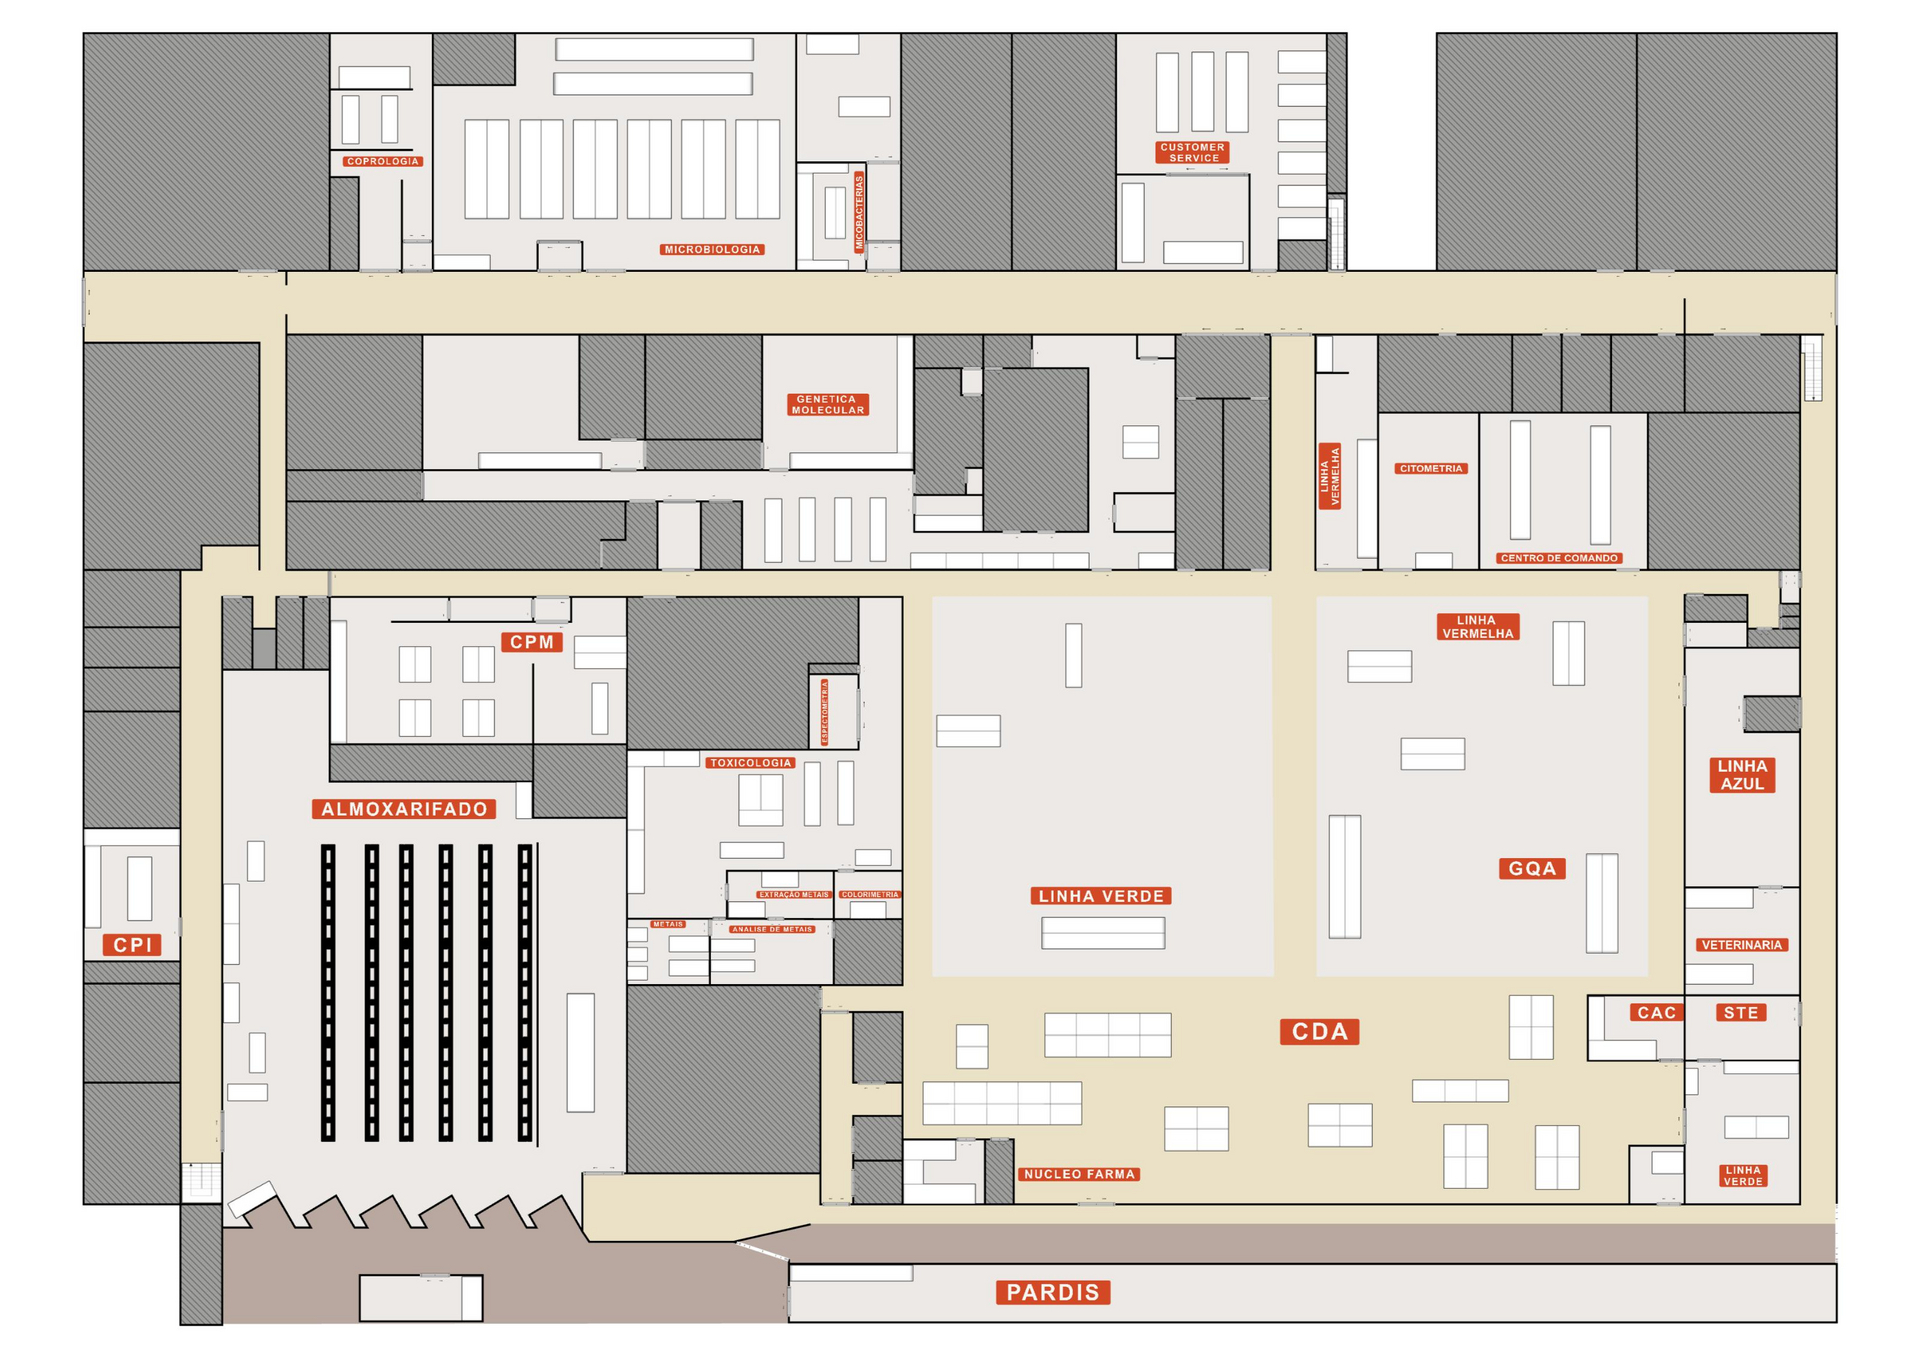
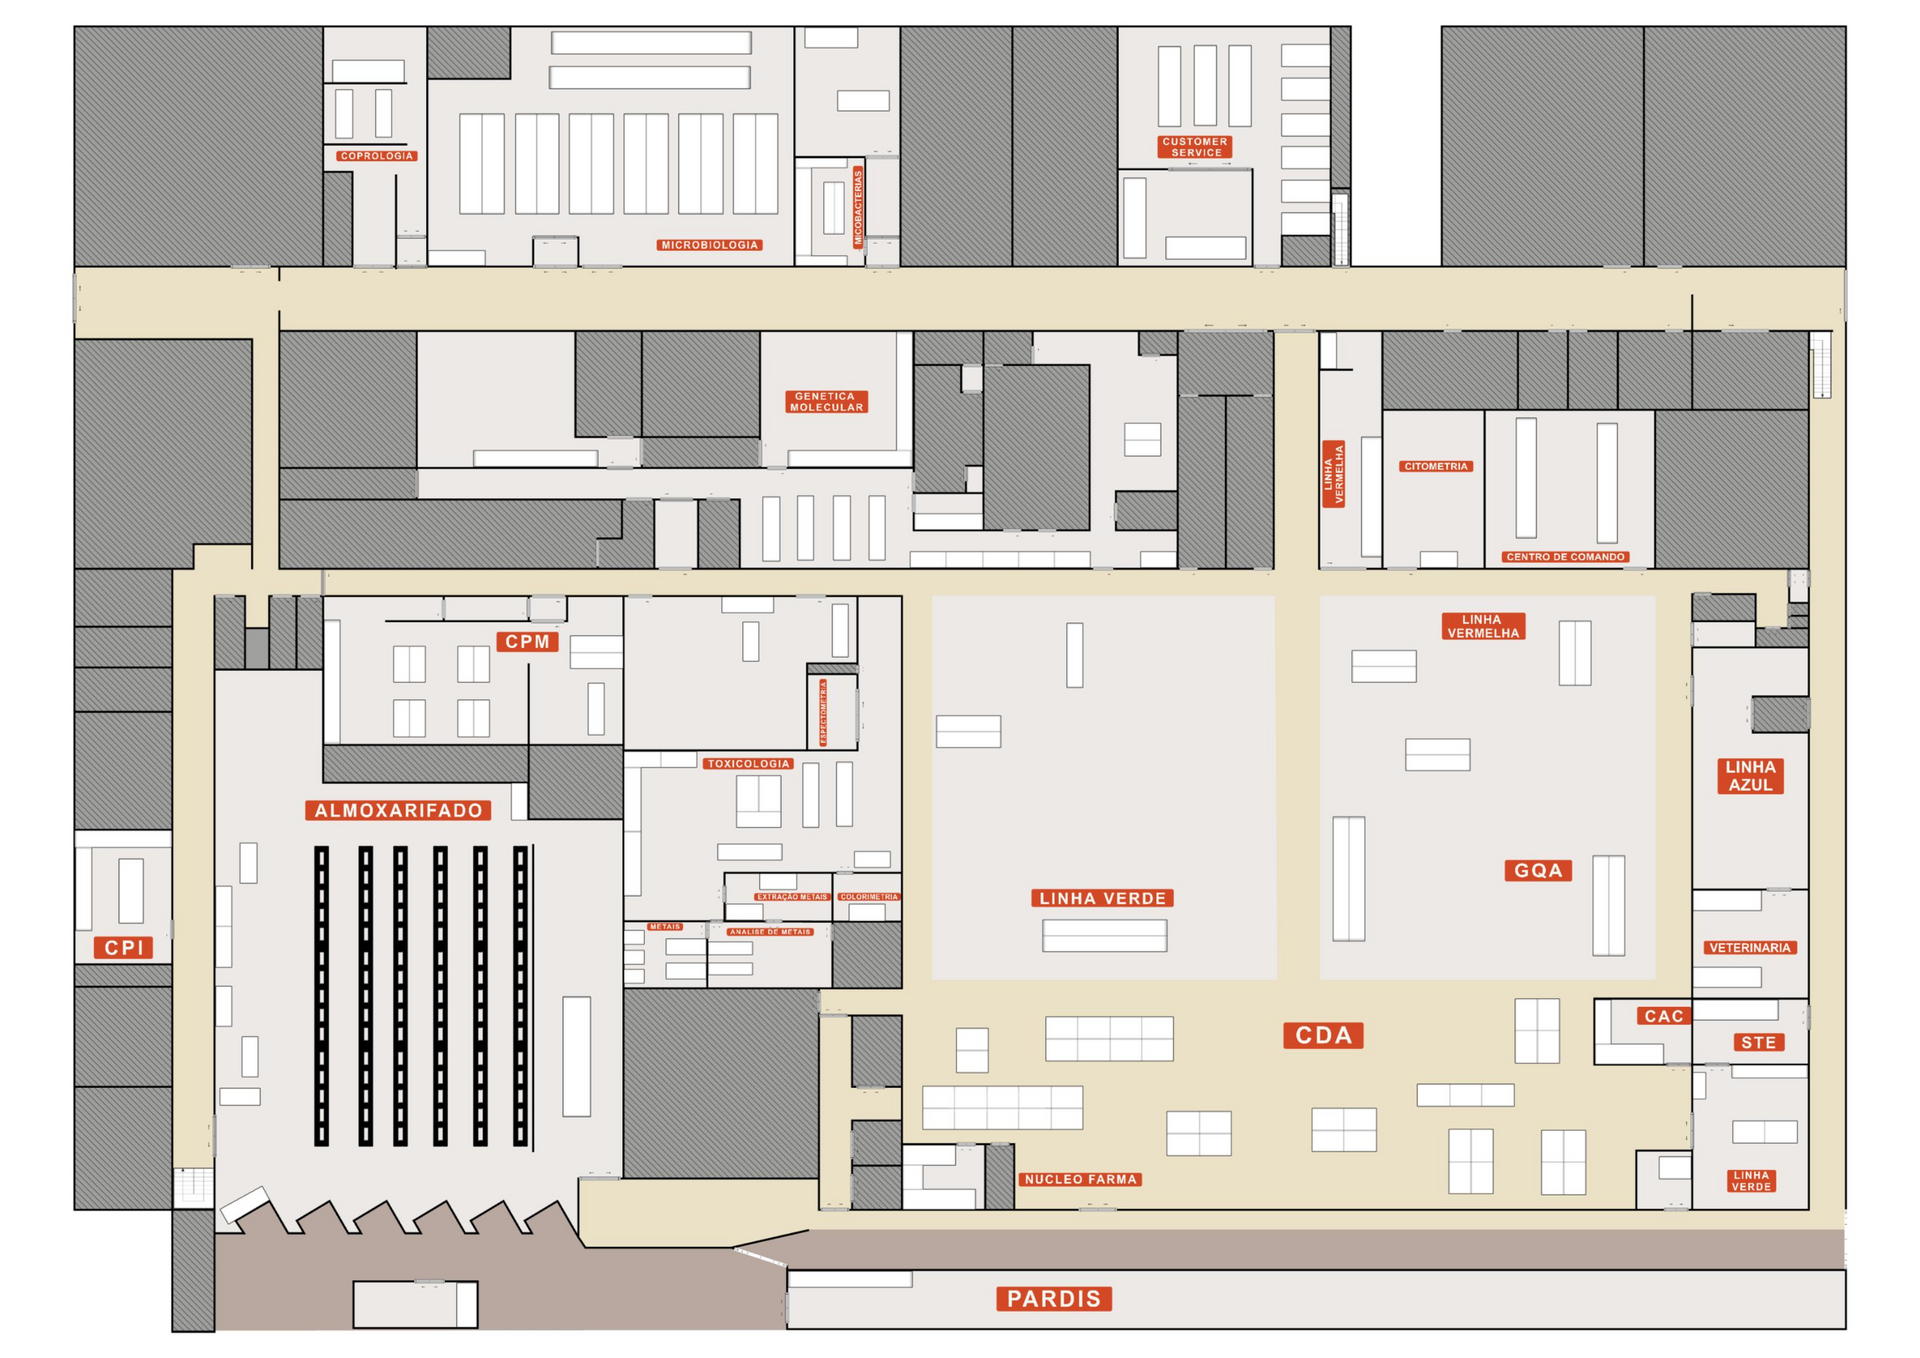
Planta atualizada, busca fixa no cabeçalho e botão Config ZT421 funcional
- Planta (plantanto.jpg) atualizada; cache-busting com ?v=3 e aspect-ratio
  ajustado (1920x1358) para o navegador pegar a imagem nova
- Busca (lupa) agora fica fixa no cabeçalho (não mais flutuante)
- Buscar e clicar num resultado só destaca a impressora no mapa; NÃO abre
  mais o painel virtual automaticamente
- Botão "Config ZT421" (visor e sidebar) passa a enviar o ZPL correto
  exportado do ZebraDesigner (config + etiqueta com logo), guardado em
  base64 em data.js para preservar o gráfico e os bytes de controle

diff --git a/data.js b/data.js
@@ -120,3 +120,8 @@ P1
 `;
 
 export const CALIBRAGEM = `~jc^xa^jus^xz`;
+
+// Configuração/etiqueta ZT421 (exportada do ZebraDesigner, com logo).
+// Guardada em base64 para preservar o gráfico e os bytes de controle exatos.
[1 lines of base64/hex data omitted]
+export const ZT421_CONFIG = (typeof atob === 'function') ? atob(ZT421_CONFIG_B64) : ZT421_CONFIG_B64;

diff --git a/index.html b/index.html
@@ -12,21 +12,6 @@
 <body>
   <div class="bg-fx"></div>
 
-  <!-- Busca flutuante -->
-  <div id="side-actions">
-    <div id="search-container">
-      <form id="search-form" class="flex items-center">
-        <input id="search-input" type="text" placeholder="Buscar por nome, IP ou setor..." autocomplete="off">
-        <div id="search-hitbox" class="icon-hitbox">
-          <button type="button" id="search-icon-btn" class="w-10 h-10 flex items-center justify-center">
-            <svg class="w-5 h-5" fill="none" stroke="currentColor" viewBox="0 0 24 24"><path stroke-linecap="round" stroke-linejoin="round" stroke-width="2" d="M21 21l-6-6m2-5a7 7 0 11-14 0 7 7 0 0114 0z"/></svg>
-          </button>
-        </div>
-      </form>
-      <div id="search-results"></div>
-    </div>
-  </div>
-
   <div id="main-wrapper" class="container mx-auto p-4 md:p-8 container-with-sidebar">
     <header class="app-header">
       <div class="app-brand">
@@ -41,6 +26,17 @@
         </div>
       </div>
       <div class="app-controls">
+        <div id="search-container">
+          <form id="search-form" class="flex items-center" onsubmit="return false">
+            <input id="search-input" type="text" placeholder="Buscar por nome, IP ou setor..." autocomplete="off">
+            <div id="search-hitbox" class="icon-hitbox">
+              <button type="button" id="search-icon-btn" class="w-10 h-10 flex items-center justify-center">
+                <svg class="w-5 h-5" fill="none" stroke="currentColor" viewBox="0 0 24 24"><path stroke-linecap="round" stroke-linejoin="round" stroke-width="2" d="M21 21l-6-6m2-5a7 7 0 11-14 0 7 7 0 0114 0z"/></svg>
+              </button>
+            </div>
+          </form>
+          <div id="search-results"></div>
+        </div>
         <button id="add-printer-btn" class="ghost-btn" title="Adicionar impressora ao mapa">
           <svg viewBox="0 0 24 24" fill="none" stroke="currentColor" stroke-width="2" stroke-linecap="round" stroke-linejoin="round"><path d="M12 5v14M5 12h14"/></svg>
           <span class="hide-sm">Adicionar</span>
@@ -65,9 +61,9 @@
     </div>
 
     <main id="map-and-content">
-      <div id="map-container" class="relative mx-auto" style="width: min(3840px, 92vw); aspect-ratio: 3840 / 2715;">
+      <div id="map-container" class="relative mx-auto" style="width: min(3840px, 92vw); aspect-ratio: 1920 / 1358;">
         <div id="map-inner" class="relative w-full h-full">
-          <img id="map-image" src="plantanto.jpg" alt="Planta" class="w-full h-full object-contain">
+          <img id="map-image" src="plantanto.jpg?v=3" alt="Planta" class="w-full h-full object-contain">
         </div>
         <div id="map-tooltip"></div>
       </div>

diff --git a/main.js b/main.js
@@ -1,5 +1,5 @@
 import { configDocRef, onSnapshot, setDoc } from './firebaseConfig.js';
-import { TESTE_CABECA, CALIBRAGEM } from './data.js';
+import { TESTE_CABECA, CALIBRAGEM, ZT421_CONFIG } from './data.js';
 import { showToast, logPanel, debounce } from './helpers.js';
 import { fetchPrinterStatus, sendCommand, STATE_LABELS } from './printer_logic.js';
 import { openBrowserWindow, closeBrowserWindow, reloadBrowser, browserBack, navigateFromBar, setupDragLogic } from './browser_window.js';
@@ -116,8 +116,9 @@ document.addEventListener('DOMContentLoaded', async () => {
         return point;
     }
 
+    const MAP_VERSION = '3'; // aumente ao trocar a planta para furar o cache
     function updateMapImage() {
-        mapImage.src = currentFloor === 1 ? 'plantanto.jpg' : 'plantanto2.jpg';
+        mapImage.src = (currentFloor === 1 ? 'plantanto.jpg' : 'plantanto2.jpg') + '?v=' + MAP_VERSION;
     }
 
     function focusPrinter(printer) {
@@ -297,7 +298,7 @@ document.addEventListener('DOMContentLoaded', async () => {
     document.getElementById('btn-calibrate-panel').addEventListener('click', () => sendCommand(CALIBRAGEM, 'Calibrar', currentPrinterIp, API_BASE_URL));
     document.getElementById('btn-headtest-panel').addEventListener('click', () => sendCommand(TESTE_CABECA, 'Teste Cabeça', currentPrinterIp, API_BASE_URL));
     document.getElementById('btn-zt421-panel').addEventListener('click', () => {
-        if (confirm('Enviar ZT421?')) sendCommand(`\x10CT~~CD,~CC^~CT~^XA~TA000~JSN^LT0^MNW^MTT^PON^PMN^LH0,0^JMA^PR3,3~SD20^JUS^LRN^CI0^XZ`, 'ZT421', currentPrinterIp, API_BASE_URL);
+        if (confirm('Enviar configuração ZT421 (imprime etiqueta de teste)?')) sendCommand(ZT421_CONFIG, 'ZT421', currentPrinterIp, API_BASE_URL);
     });
     document.getElementById('btn-send-raw-panel').addEventListener('click', () => {
         sendCommand(document.getElementById('panel-rawcmd').value, 'Manual', currentPrinterIp, API_BASE_URL);
@@ -353,7 +354,8 @@ document.addEventListener('DOMContentLoaded', async () => {
                 document.getElementById('search-container').classList.remove('expanded');
                 searchInput.value = '';
                 if (r.floor !== currentFloor) { currentFloor = r.floor; floorSelect.value = r.floor; updateMapImage(); renderAllPrinters(); }
-                focusPrinter(r); selectPrinter(r);
+                // apenas destaca no mapa; NÃO abre o painel virtual automaticamente
+                focusPrinter(r);
             };
             searchResults.appendChild(d);
         });

diff --git a/style.css b/style.css
@@ -146,21 +146,21 @@ body{
 /* ============================================================
    BUSCA
    ============================================================ */
-#side-actions{ position:fixed; top:18px; right:380px; z-index:70; }
-@media (max-width:900px){ #side-actions{ right:16px; } }
+/* Busca fixa no cabeçalho */
 #search-container{
   position:relative; display:flex; align-items:center; justify-content:flex-end;
-  background:var(--panel-bg); border:1px solid var(--card-border); border-radius:999px;
-  backdrop-filter: blur(12px); box-shadow:var(--shadow);
+  background:var(--card-strong); border:1px solid var(--card-border); border-radius:999px;
+  height:40px; transition:border-color .15s;
 }
+#search-container.expanded{ border-color:var(--accent-border); }
 #search-container button{ color:var(--muted); }
 #search-container:hover button, #search-container.expanded button{ color:var(--accent); }
 #search-input{
   transition:width 300ms ease-in-out; width:0; padding:0; border:none; outline:none;
-  background:transparent; color:var(--txt); height:44px; font-size:.9rem;
+  background:transparent; color:var(--txt); height:38px; font-size:.86rem; min-width:0;
 }
 #search-input::placeholder{ color:var(--faint); }
-#search-container.expanded #search-input{ width:270px; padding-left:1.1rem; padding-right:.4rem; }
+#search-container.expanded #search-input{ width:min(240px,52vw); padding-left:1rem; padding-right:.3rem; }
 .icon-hitbox{ display:inline-flex; align-items:center; justify-content:center; padding:4px; border-radius:9999px; cursor:pointer; -webkit-tap-highlight-color:transparent; }
 #search-results{
   position:absolute; top:115%; right:0; width:310px;

diff --git a/zebra_panel.js b/zebra_panel.js
@@ -1,7 +1,7 @@
 import { sendCommand, fetchPrinterStatus, sendCommandWithReply, fetchCounter, STATE_LABELS } from './printer_logic.js';
 import { showToast, logPanel } from './helpers.js';
 import { openBrowserWindow } from './browser_window.js';
-import { TESTE_CABECA, CALIBRAGEM } from './data.js';
+import { TESTE_CABECA, CALIBRAGEM, ZT421_CONFIG } from './data.js';
 
 const POLL_MS = 8000;      // intervalo de telemetria com o painel aberto
 const COUNTER_MS = 5000;   // intervalo do contador de impressão
@@ -543,8 +543,8 @@ function init() {
     // ações avançadas
     $('adv-toggle').addEventListener('click', () => $('adv-toggle').parentElement.classList.toggle('open'));
     $('adv-zt421').addEventListener('click', () => {
-        if (confirm('Enviar configuração ZT421 para a impressora?'))
-            keyAction(`\x10CT~~CD,~CC^~CT~^XA~TA000~JSN^LT0^MNW^MTT^PON^PMN^LH0,0^JMA^PR3,3~SD20^JUS^LRN^CI0^XZ`, 'Config ZT421');
+        if (confirm('Enviar configuração ZT421 para a impressora? (imprime uma etiqueta de teste)'))
+            keyAction(ZT421_CONFIG, 'Config ZT421', 4000);
     });
     $('adv-factory').addEventListener('click', () => {
         if (confirm('Restaurar padrões de fábrica?\n\nATENÇÃO: pode apagar a configuração de rede e desconectar a impressora do túnel, exigindo intervenção física no local.'))
